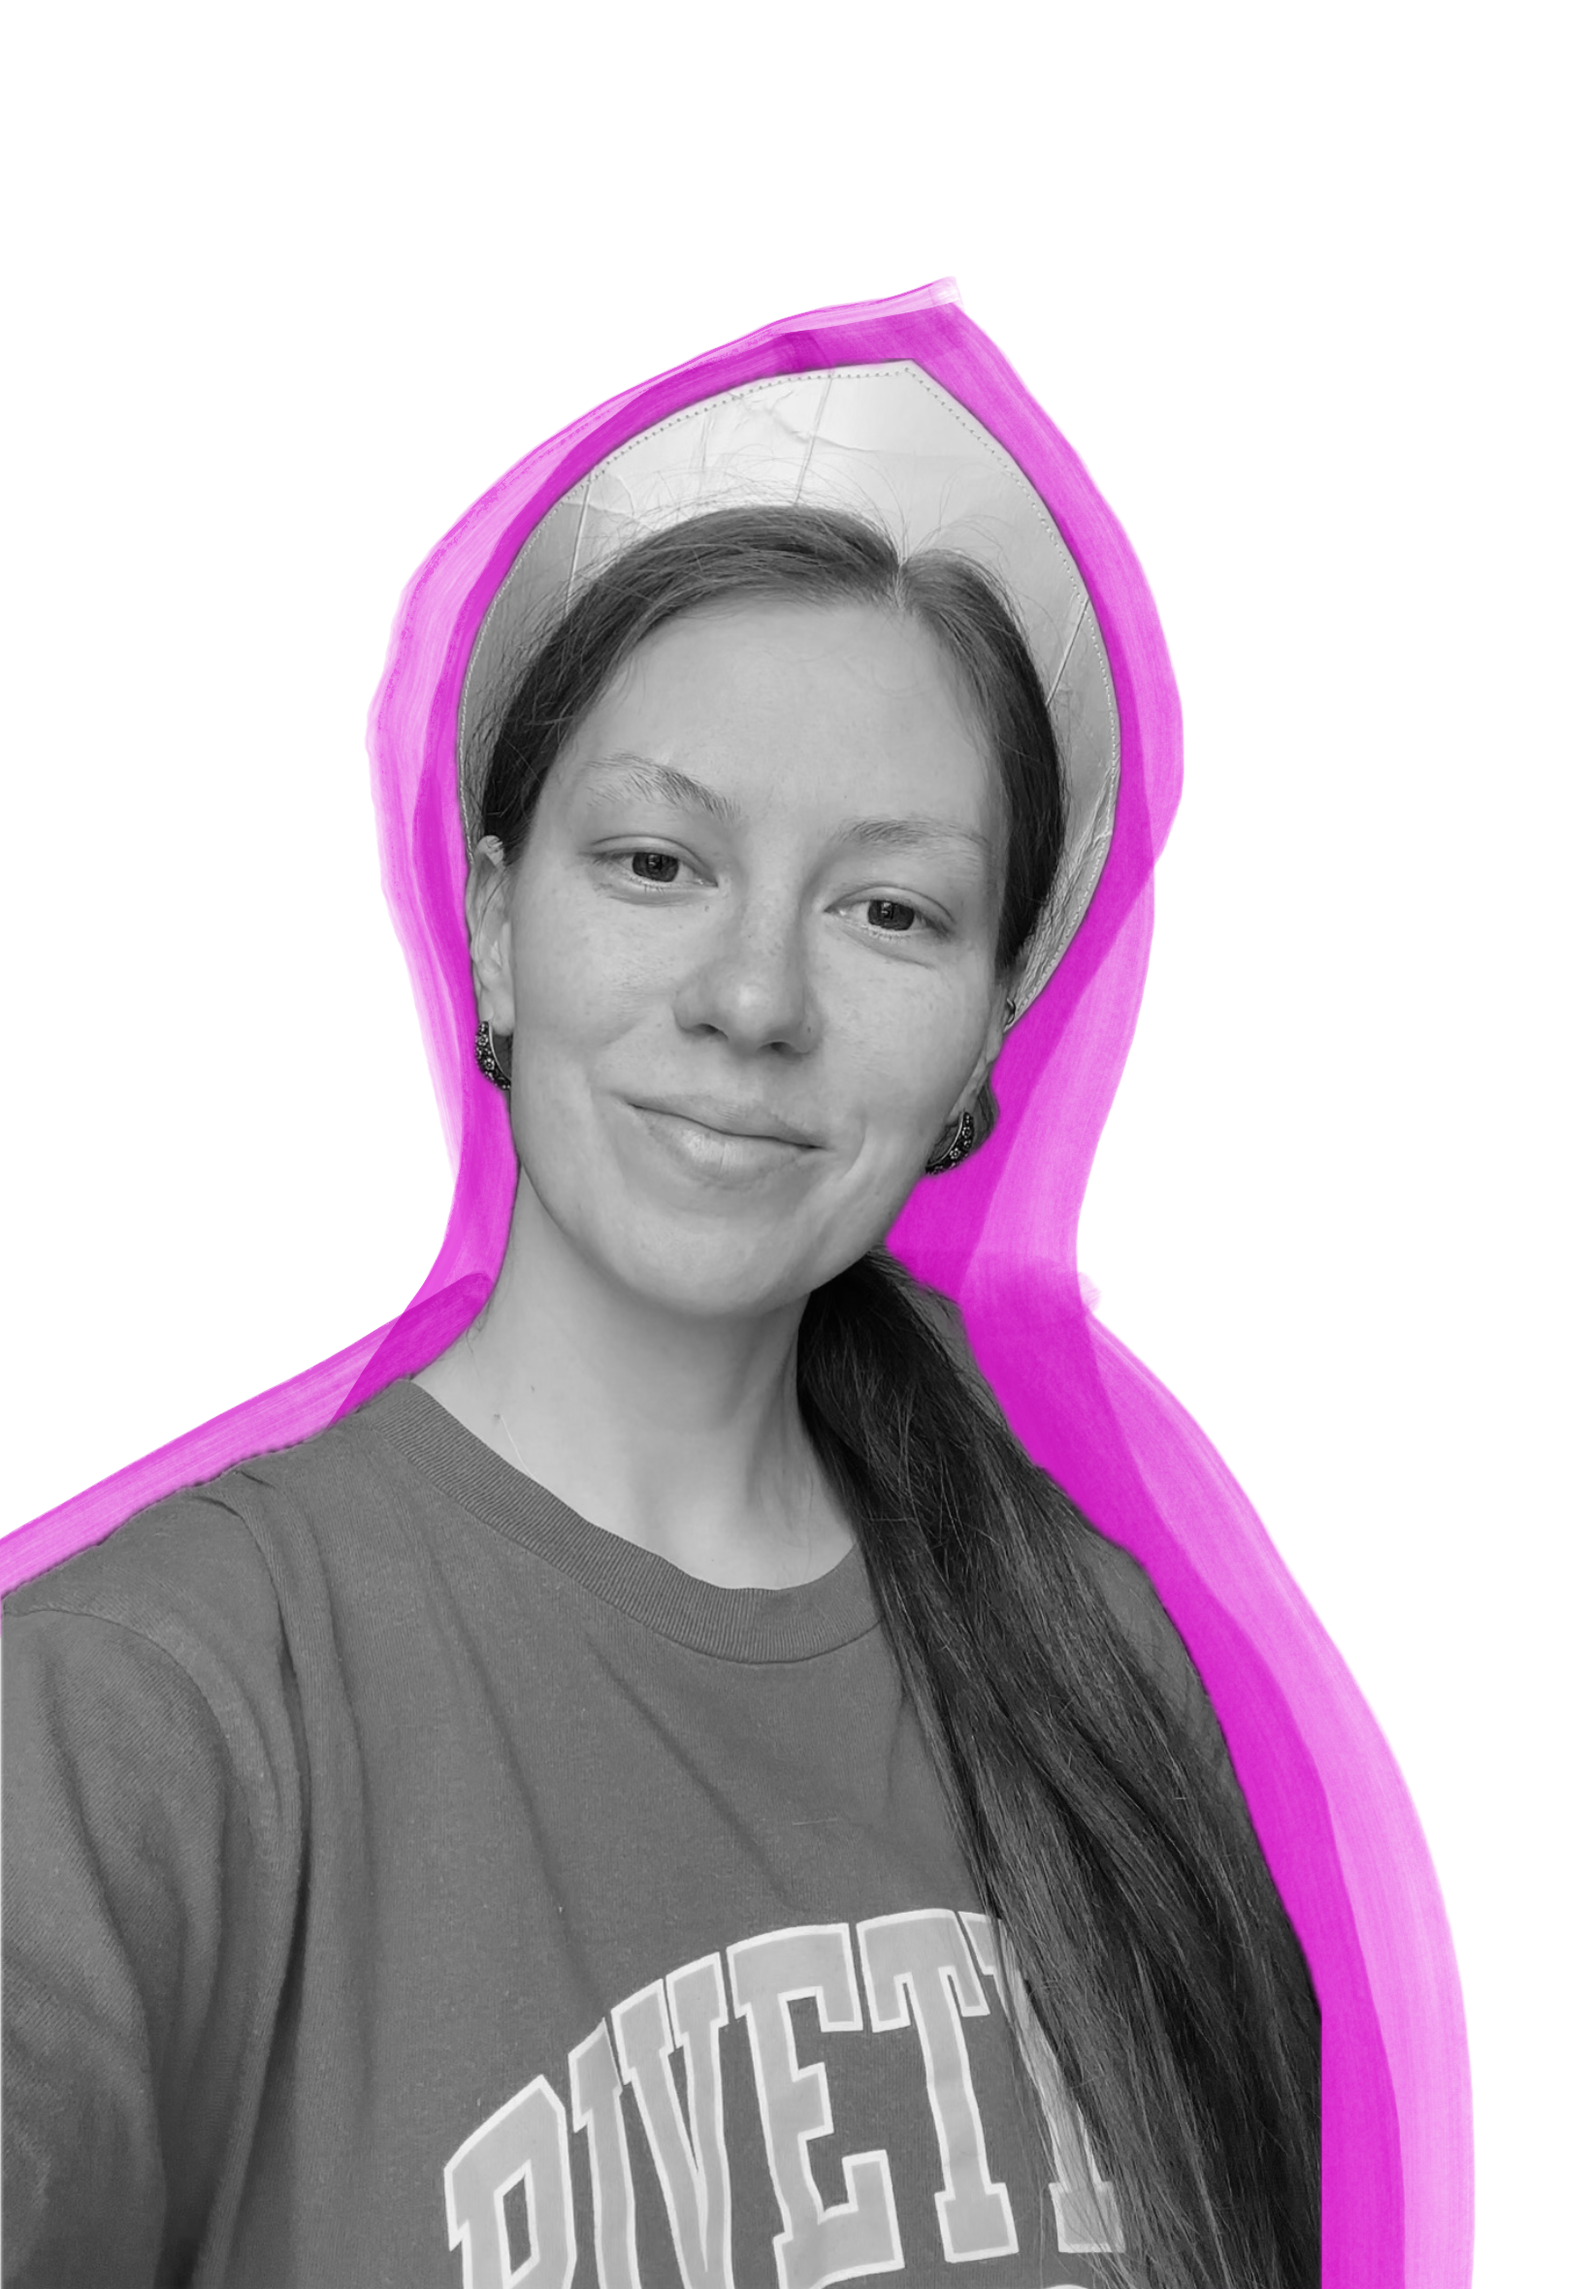
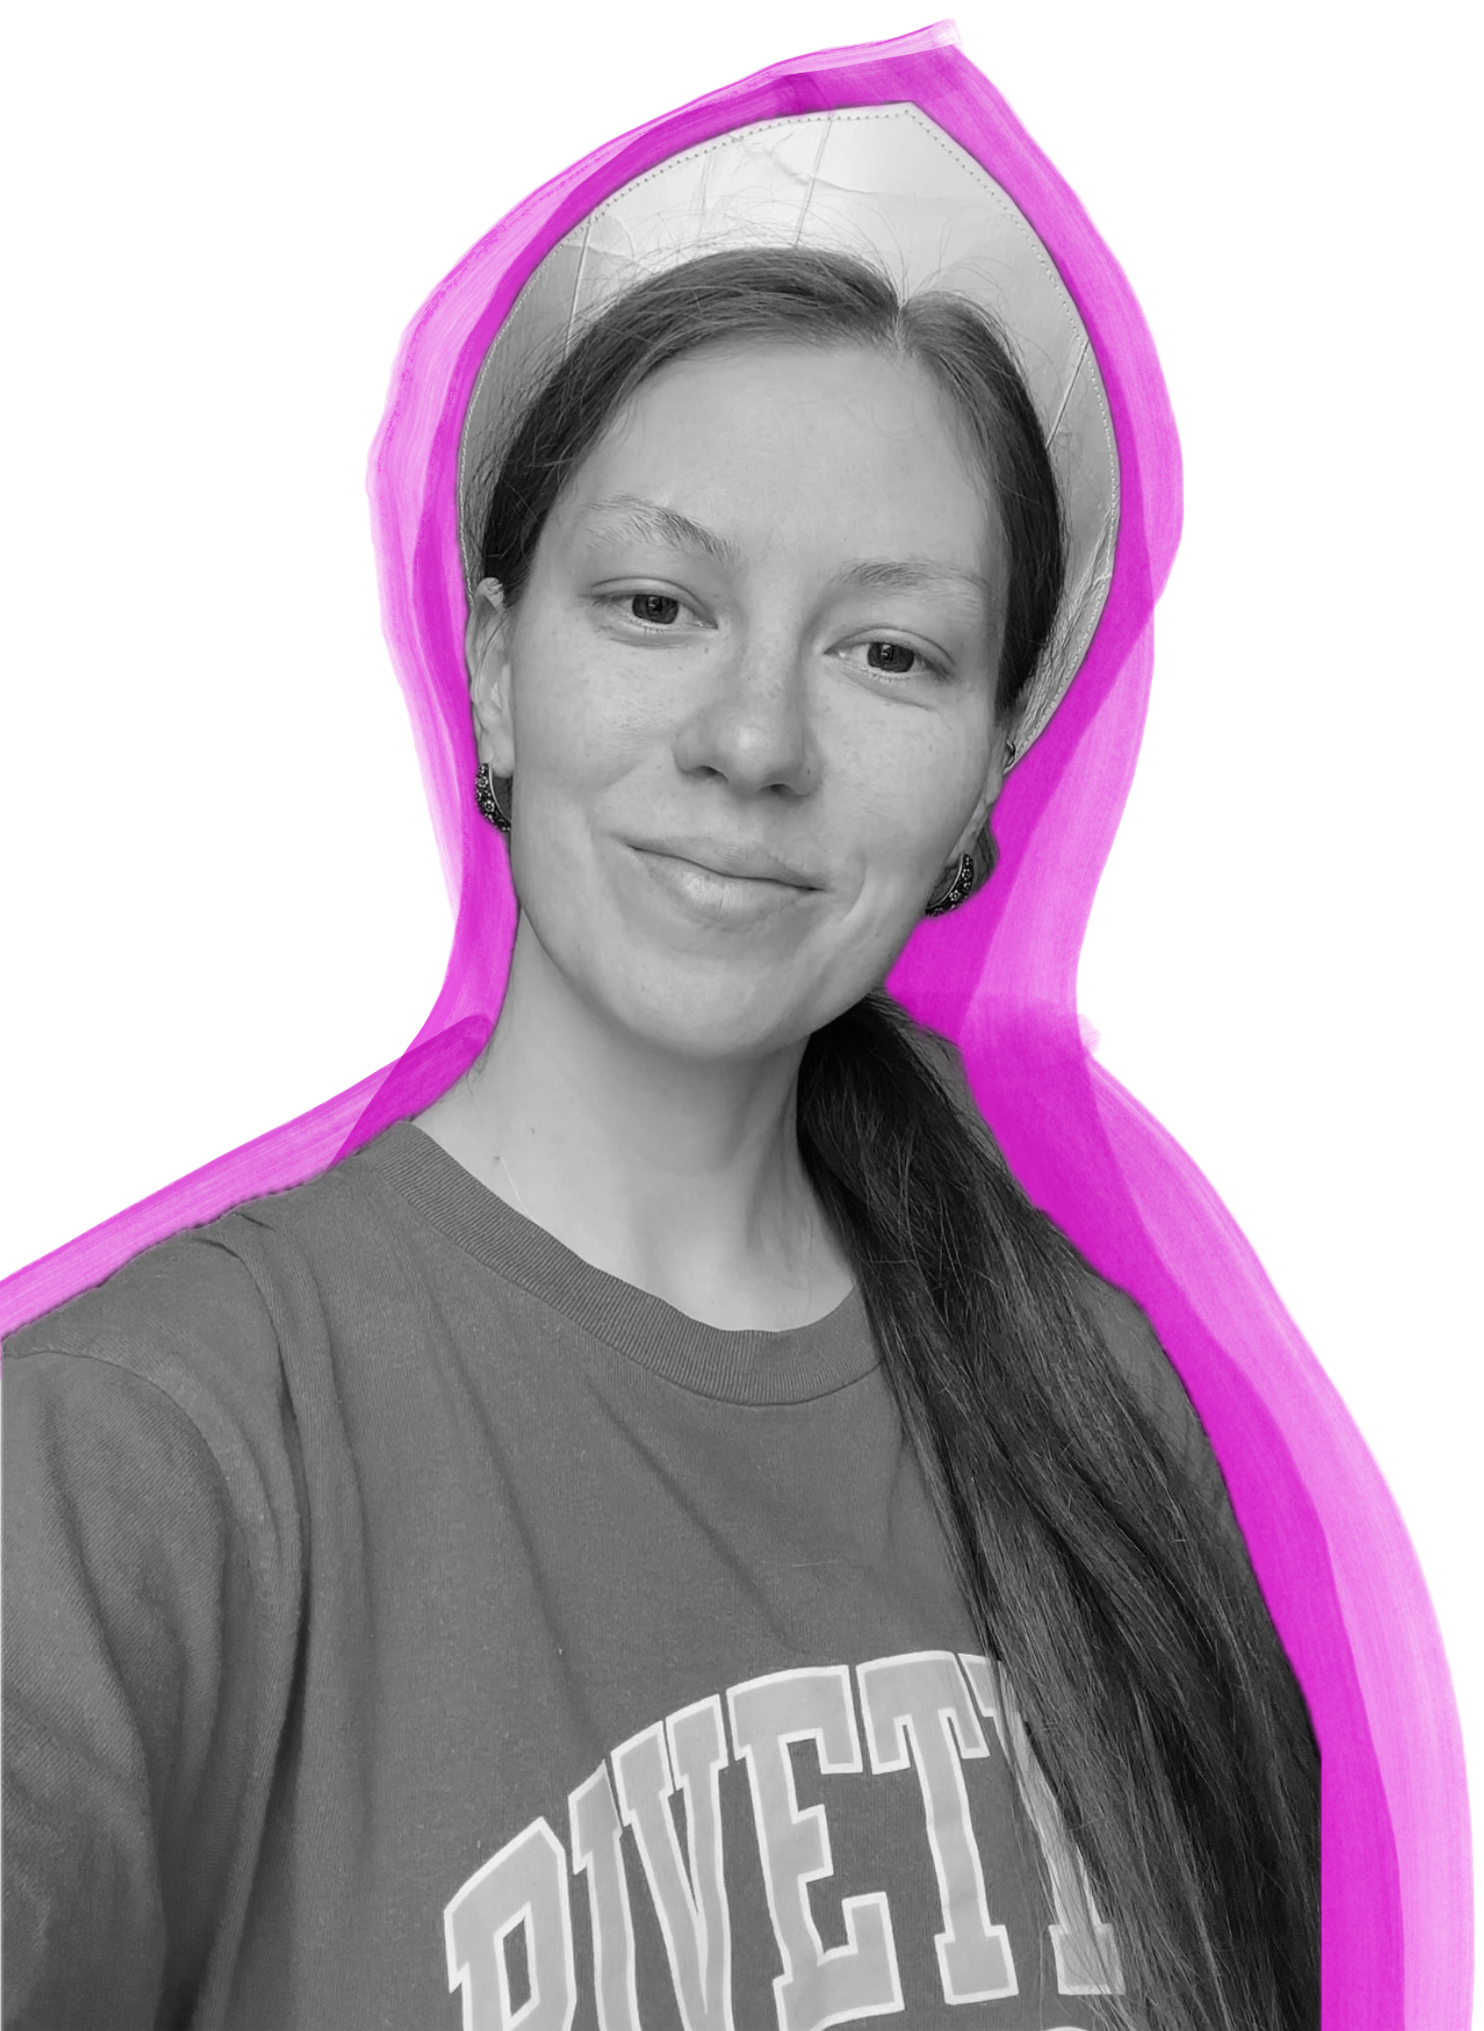
меняла описание

diff --git a/src/styles/sections/hero.scss b/src/styles/sections/hero.scss
@@ -1,12 +1,19 @@
 .hero {
   background: var(--gray);
-  padding: 1rem 0 2rem;
+  padding: clamp(1rem, 2.5vw, 1.75rem) 0 clamp(1.5rem, 3vw, 2rem);
+  overflow: hidden;
 }
 
 .hero-inner {
+  position: relative;
   max-width: 1200px;
   margin: 0 auto;
-  padding: 0 1rem;
+  padding: 0 clamp(1rem, 4vw, 2rem);
+}
+
+.hero-card {
+  position: relative;
+  overflow: visible;
 }
 
 .hero-brand-title {
@@ -18,73 +25,90 @@
   color: var(--pink);
 }
 
+.hero-top {
+  display: flex;
+  flex-direction: column;
+  gap: clamp(0.65rem, 2vw, 1rem);
+  margin-bottom: clamp(0.75rem, 2vw, 1.25rem);
+  width: 100%;
+}
+
 .hero-intro {
   font-size: clamp(0.84rem, 2.8vw, 0.98rem);
   line-height: 1.45;
   color: var(--blue);
-  width: 66%;
-  margin-left: 34%;
+  text-align: left;
+  width: 66.666667%;
+  max-width: 66.666667%;
+  margin-left: 33.333333%;
+  margin-top: clamp(1.25rem, 5vw, 3rem);
 }
 
 .hero-mid {
   position: relative;
-  min-height: 260px;
+  z-index: 4;
+  margin-bottom: clamp(-3.5rem, -8vw, -2.25rem);
+  min-height: clamp(240px, 52vw, 360px);
 }
 
 .hero-photo-zone {
   position: relative;
-}
-
-.hero-star {
-  position: absolute;
-  z-index: 6;
-}
-
-.hero-star-1 {
-  width: 58px;
-  top: 18%;
-  left: 2%;
-}
-
-.hero-star-2 {
-  width: 48px;
-  top: 8%;
-  right: 6%;
-}
-
-.hero-star-3 {
-  width: 42px;
-  top: 34%;
-  right: 2%;
+  width: min(72%, 340px);
 }
 
 .hero-photo-wrap {
   position: relative;
-  width: min(72%, 340px);
+  width: 100%;
+}
+
+.hero-photo {
+  display: block;
+  width: 100%;
+  height: auto;
+  max-width: 100%;
+  object-fit: contain;
+  aspect-ratio: 1640 / 2360;
 }
 
 .hero-hand-greeting {
   position: absolute;
-  top: 35%;
-  left: 58%;
+  top: calc(10% + 2cm);
+  left: calc(54% + 1cm);
+  transform: rotate(4deg);
   font-family: 'Caveat', cursive;
   font-weight: 700;
-  font-size: clamp(1.1rem, 4vw, 1.6rem);
+  font-size: clamp(1.15rem, 4.2vw, 1.65rem);
   color: var(--blue);
+ 
+  line-height: 0.88;
+  pointer-events: none;
+}
+
+.hero-stars {
+  position: absolute;
+  left: 210px;
+  top: 298px;
+  width: 316px;
+  height: auto;
+  z-index: 5;
+  pointer-events: none;
+  object-fit: contain;
 }
 
 .hero-about-card {
+  position: relative;
+  z-index: 1;
   background: var(--pink);
   color: var(--white);
   width: 100vw;
   margin-left: calc(50% - 50vw);
-  padding: 2.5rem 1.5rem 1.5rem;
+  padding: clamp(2.75rem, 6vw, 3.25rem) clamp(1.5rem, 5vw, 4rem) clamp(1.25rem, 3vw, 1.75rem);
   margin-bottom: 1rem;
 }
 
 .hero-about-text {
   max-width: 52ch;
-  font-size: 0.95rem;
+  font-size: clamp(0.88rem, 2.8vw, 1rem);
   line-height: 1.45;
 }
 
@@ -110,7 +134,54 @@
   }
 }
 
+@media (min-width: 768px) {
+  .hero-photo-zone {
+    width: min(58%, 360px);
+  }
+
+  .hero-hand-greeting {
+    top: calc(8% + 2cm);
+    left: calc(56% + 1cm);
+    font-size: clamp(1.35rem, 2.2vw, 1.75rem);
+    max-width: 12rem;
+  }
+}
+
+@media (max-width: 900px) {
+  .hero-mid {
+    min-height: clamp(260px, 58vw, 340px);
+    margin-bottom: clamp(-2.5rem, -6vw, -1.75rem);
+  }
+
+  .hero-hand-greeting {
+    top: 95px;
+    left: 216px;
+    width: 185px;
+    font-size: clamp(1.05rem, 4.8vw, 1.45rem);
+  }
+
+  .hero-photo-zone {
+    width: min(68%, 280px);
+  }
+}
+
 @media (max-width: 390px) {
+  .hero-inner {
+    padding-left: 0.75rem;
+    padding-right: 0.75rem;
+  }
+
+  .hero-hand-greeting {
+    font-size: clamp(0.9rem, 4.2vw, 1.15rem);
+    max-width: 7.5rem;
+    top: calc(6% + 2cm);
+    left: calc(50% + 1cm);
+  }
+
+  .hero-photo-zone {
+    width: min(72%, 230px);
+  }
+
   .hero-actions .btn-pill {
     max-width: none;
     font-size: 0.95rem;

diff --git a/src/components/Hero.tsx b/src/components/Hero.tsx
@@ -1,9 +1,4 @@
-interface HeroProps {
-  onOfflineClick: () => void
-  onOnlineClick: () => void
-}
-
-export function Hero({ onOfflineClick, onOnlineClick }: HeroProps) {
+export function Hero() {
   return (
     <section className="hero" id="home">
       <div className="hero-inner">
@@ -20,11 +15,20 @@ export function Hero({ onOfflineClick, onOnlineClick }: HeroProps) {
             <div className="hero-photo-zone">
               <div className="hero-photo-wrap">
                 <img className="hero-photo" src="/assets/hero-portrait.png" alt="Даша — основательница SNOVA" />
-                <span className="hero-hand hero-hand-greeting">Привет, мусорным энтузиастам!</span>
+                <span className="hero-hand hero-hand-greeting">
+                  Привет, мусорным энтузиастам!
+                </span>
               </div>
             </div>
           </div>
         </div>
+
+        <img
+          className="hero-stars"
+          src="/assets/offline-stars.png"
+          alt=""
+          aria-hidden="true"
+        />
 
         <div className="hero-about-card">
           <p className="hero-about-text">
@@ -34,12 +38,12 @@ export function Hero({ onOfflineClick, onOnlineClick }: HeroProps) {
         </div>
 
         <div className="hero-actions">
-          <button className="btn-pill btn-lime" type="button" onClick={onOfflineClick}>
+          <a className="btn-pill btn-lime" href="#offline">
             оффлайн
-          </button>
-          <button className="btn-pill btn-cream" type="button" onClick={onOnlineClick}>
+          </a>
+          <a className="btn-pill btn-cream" href="#services">
             онлайн
-          </button>
+          </a>
         </div>
       </div>
     </section>

diff --git a/src/components/LessonCard.tsx b/src/components/LessonCard.tsx
@@ -46,9 +46,14 @@ export function LessonCard({ lesson }: LessonCardProps) {
           <p className="lesson-price">{lesson.price}</p>
           <p className="lesson-note">{lesson.note}</p>
           <div className="lesson-actions">
-            <button className="btn-pill btn-lime" type="button">
+            <a
+              className="btn-pill btn-lime"
+              href="https://dashashmi.github.io/SNOVA-payment"
+              target="_blank"
+              rel="noreferrer"
+            >
               купить
-            </button>
+            </a>
             <a className="btn-pill btn-cream" href={lesson.telegramUrl} target="_blank" rel="noreferrer">
               {lesson.telegramLabel}
             </a>

diff --git a/src/data/lessons.ts b/src/data/lessons.ts
@@ -24,7 +24,7 @@ export const onlineLessons: Lesson[] = [
     level: 'средний',
     image: '/assets/silver-lesson-photo.jpg',
     imageAlt: 'Обложка на паспорт из фольгированного пакета',
-    price: 'Цена: 2600 руб / 70 GEL',
+    price: 'Цена: 3000 руб / 90 GEL',
     note: 'После оплаты, присылайте квитанцию в Telegram и я открою вам доступ к уроку',
     telegramLabel: 'написать в Telegram',
     telegramUrl: 'https://t.me/shmizh',

diff --git a/src/App.tsx b/src/App.tsx
@@ -16,12 +16,9 @@ function App() {
 
   return (
     <>
-      <Header onPrimaryClick={() => scrollToSection('home')} />
+      <Header onPrimaryClick={() => scrollToSection('lesson-1')} />
       <main>
-        <Hero
-          onOfflineClick={() => scrollToSection('offline')}
-          onOnlineClick={() => scrollToSection('lesson-1')}
-        />
+        <Hero />
         <Marquee />
         <Services />
         <Offline />

diff --git a/src/styles/sections/services.scss b/src/styles/sections/services.scss
@@ -1,6 +1,7 @@
 @use './lesson-card';
 
 .services {
+  scroll-margin-top: 4.5rem;
   background: var(--blue);
   color: var(--white);
   padding: clamp(3rem, 8vw, 6rem) clamp(1.5rem, 5vw, 4rem);

diff --git a/src/styles/sections/offline.scss b/src/styles/sections/offline.scss
@@ -1,6 +1,7 @@
 @use './lesson-card';
 
 .offline {
+  scroll-margin-top: 4.5rem;
   background: var(--pink);
   color: var(--white);
   padding: clamp(3rem, 8vw, 6rem) clamp(1.5rem, 5vw, 4rem);

diff --git a/src/styles/sections/_lesson-card.scss b/src/styles/sections/_lesson-card.scss
@@ -7,6 +7,7 @@
 }
 
 .service-card-lesson {
+  scroll-margin-top: 4.5rem;
   grid-column: 1 / -1;
   align-items: stretch;
   text-align: left;
